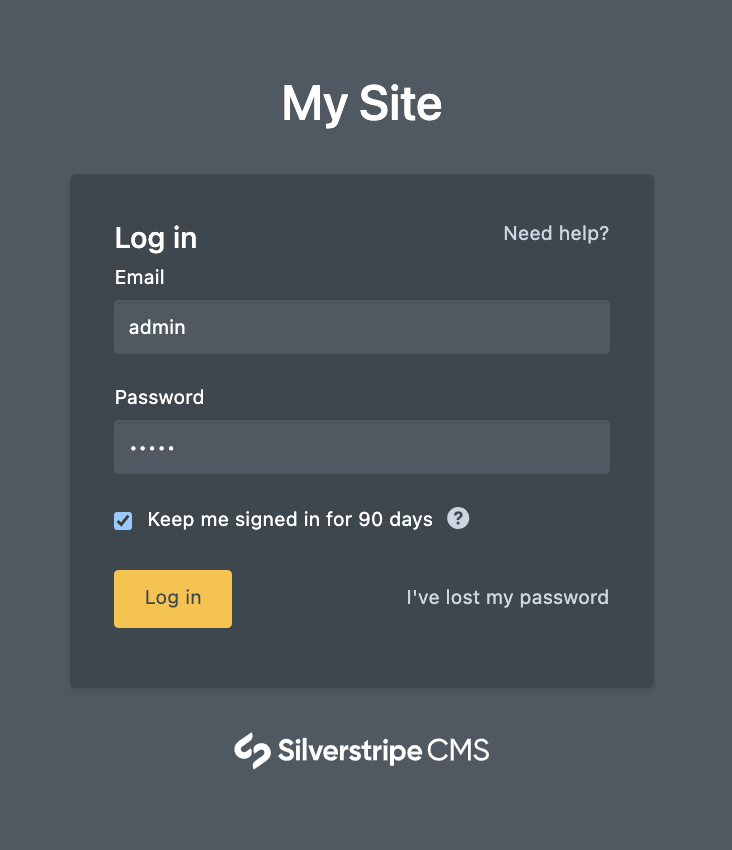
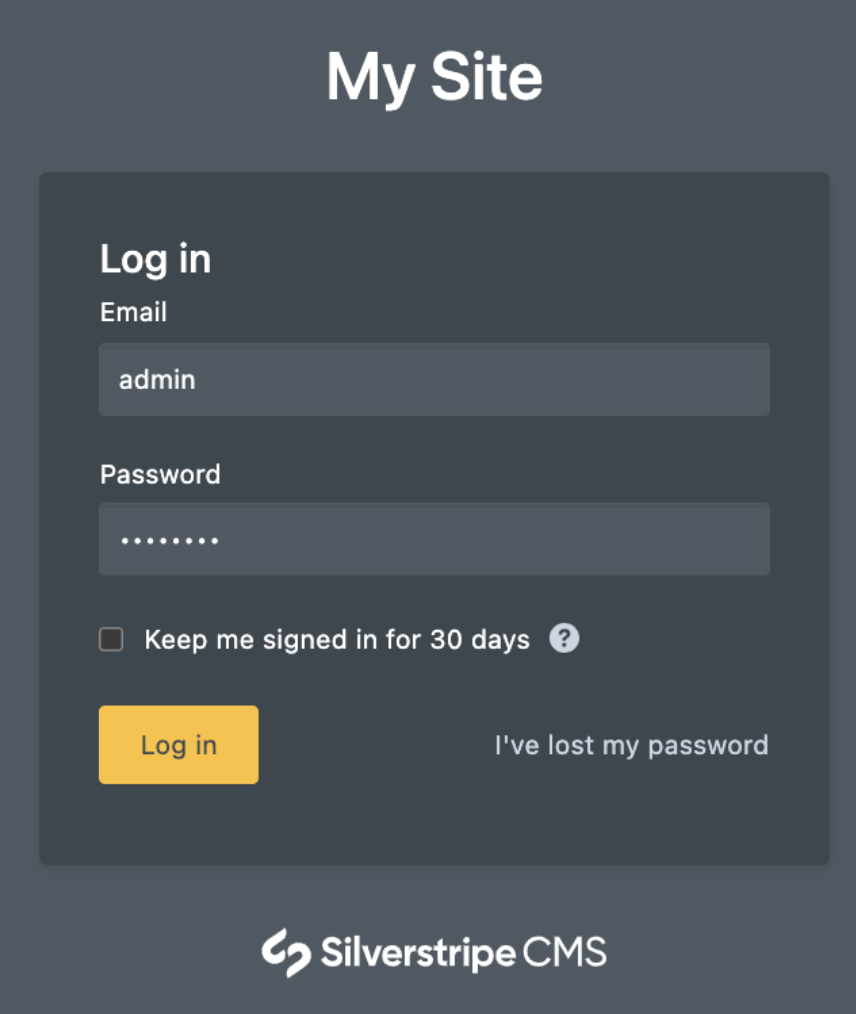
Final amendments.

diff --git a/docs/en/userguide/index.md b/docs/en/userguide/index.md
@@ -13,7 +13,7 @@ Make sure you have the [Silverstripe CMS Session Manager](https://addons.silvers
 
 ## Logging in
 
-When logging in with "Keep me signed in for 30 days" selected, a session will remain active on that device for the full 30 days unless it is terminated prior to that allocated timeframe. Without this selected a session will only last for xyz hours.
+When logging in with *_Keep me signed in for 30 days_*" checked, a session will remain active on that device for the full 30 days unless it is terminated prior to that allocated timeframe. Without this option checked, a session will only last for the duration of your browser session.
 
 [notice]
 You should not use the "Keep me signed in" functionality when working on a device shared with other users (e.g.: internet café computer or a public library workstation).
@@ -23,29 +23,25 @@ You should not use the "Keep me signed in" functionality when working on a devic
 
 ## Viewing login sessions
 
-In order to view login sessions once logged in, navigate to your profile by clicking on your name in the left hand CMS menu. Every valid and currently active login session will be listed under `Login sessions`.
+In order to view login sessions once logged in, navigate to your profile by clicking on your name in the left hand CMS menu. Every valid and currently active login session will be listed under ***Login sessions***.
 
+![List of login sessions viewed through the Silverstripe CMS member profile](_images/viewing-login-sessions.png)
 
-
-![Viewing login sessions](_images/viewing-login-sessions.png)
-
-There is various data associated with every login session that can be used to identify the device that is logged in:
+There is various data associated with every login session that can be used to identify the device that is logged in.
 
 * Browser
-* Operating System
-* IP Address
+* Operating system
+* IP address
 * Last active time
-* Sign in time
+* Sign-in time
 
 [notice]
-Note: Members can only view access for their own profile. Nobody else will have access to view your sessions.
+A member can only view login sessions for their own profile. No one else will have access to view your sessions.
 [/notice]
 
 ## Revoking access
 
-To remove access for a session associated with a device, click the *_Log out_* link next to the session you want to remove. This session will be immediately removed and anyone viewing the CMS using this session will need to log back in.
-
-![Confirmation screen for revoking a login session](_images/revoking-login-sessions.png)
+To remove access for a session associated with a device, click the **Log out** link next to the session you want to remove. This session will be immediately removed and anyone viewing the CMS using this session will need to log back in.
 
 [notice]
 A member can only revoke access for their own profile. No one else will have access to remove your sessions.

diff --git a/README.md b/README.md
@@ -27,7 +27,7 @@ Due to the way PHP sessions operate, it can not expire those sessions as well.
 The PHP sessions will be invalidated on next request through `LoginSessionMiddleware`,
 unless they expire independently beforehand (through PHP's own session expiry logic).
 
-Silverstripe allows persisting login state via a "remember me" feature.
+Silverstripe allows persisting login state via a "Keep me signed in" feature.
 These `RememberLoginHash` records have their own expiry date.
 This module associates them to `LoginSession` records,
 and ensures their expiry is consistent with the new session behaviour
@@ -55,7 +55,7 @@ It is also compatible with the [Silverstripe MFA module suite](https://github.co
 
 ### Logout across devices
 
-Session-manager provides an explicit way to terminate individual sessions and their attached "remember me" tokens. So this module sets `SilverStripe\Security\RememberLoginHash.logout_across_devices` to `false`.
+Session-manager provides an explicit way to terminate individual sessions and their attached "Keep me signed in" tokens. So this module sets `SilverStripe\Security\RememberLoginHash.logout_across_devices` to `false`.
 
 To restore the old behaviour with session manager installed, add the following YML config to your project:
 
@@ -69,11 +69,11 @@ SilverStripe\Security\RememberLoginHash:
   logout_across_devices: true
 ```
 
-Read [Saved User Logins](https://docs.silverstripe.org/en/4/developer_guides/security/member/#saved-user-logins) to learn how to configure the "remember me" feature for your members.
+Read [Saved User Logins](https://docs.silverstripe.org/en/4/developer_guides/security/member/#saved-user-logins) to learn how to configure the "Keep me signed in" feature for your members.
 
 ### Session timeout
 
-Non-persisted login sessions (those where the member hasn’t ticked “remember me”) should expire after a period of inactivity, so that they’re removed from the list of active sessions even if the member closes their browser without completing the “log out” action. The length of time before expiry matches the `SilverStripe\Control\Session.timeout` value if one is set, otherwise falling back to a default of one hour. This default can be changed via the following config setting:
+Non-persisted login sessions (those where the member hasn’t ticked "Keep me signed in") should expire after a period of inactivity, so that they’re removed from the list of active sessions even if the member closes their browser without completing the “log out” action. The length of time before expiry matches the `SilverStripe\Control\Session.timeout` value if one is set, otherwise falling back to a default of one hour. This default can be changed via the following config setting:
 
 ```yml
 SilverStripe\SessionManager\Models\LoginSession:
